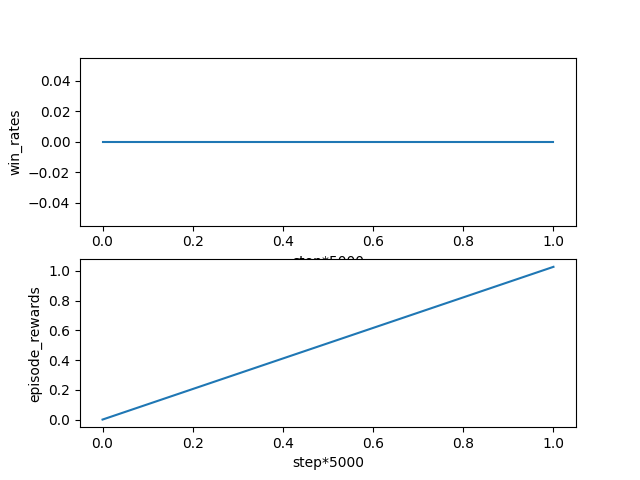
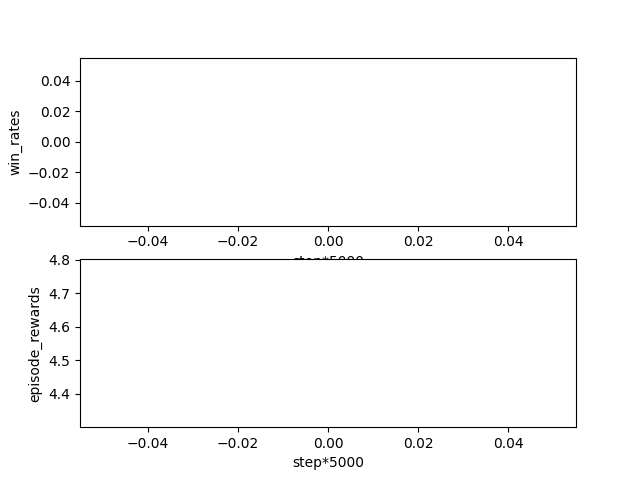
add max selector

diff --git a/network/task_rnn.py b/network/task_rnn.py
@@ -1,7 +1,9 @@
+from numpy.lib.type_check import imag
 from torch._C import qscheme
 import torch.nn as nn
 import torch.nn.functional as f
 import torch
+import numpy as np
 
 class TaskRNN(nn.Module):
     # Because all the agents share the same network, input_shape=obs_shape+n_actions+n_agents
@@ -55,3 +57,65 @@ class TaskRNN(nn.Module):
         
         return q, h, i_task
 
+
+class TaskRNNMax(nn.Module):
+    # Because all the agents share the same network, input_shape=obs_shape+n_actions+n_agents
+    def __init__(self, input_shape, args):
+        super(TaskRNN, self).__init__()
+        self.args = args
+        self.n_tasks = args.n_tasks
+        self.fc1 = nn.Linear(input_shape, args.rnn_hidden_dim)
+        self.rnn = nn.GRUCell(args.rnn_hidden_dim, args.rnn_hidden_dim)
+        # args.n_actions +1 ：动作维数+task selector. 每个任务不同的策略。
+        self.fc2 = nn.Linear(args.rnn_hidden_dim, args.n_actions * args.n_tasks)
+
+    def forward(self, obs, hidden_state, evaluate = False, num = 0):
+        '''
+        Params:
+            obs: (n_episode,  n_obs+...). or (n_episode*n_agent, n_obs+...)
+            hidden_state: (n_episode, n_agent, rnn_hidden_dim)
+        Return:
+            q: (n_episode,  n_actions), or (n_episode*n_agent,  n_actions)
+            i_task: (n_episode) or (n_episode*n_agent)
+        '''
+
+        x = f.relu(self.fc1(obs))
+        h_in = hidden_state.reshape(-1, self.args.rnn_hidden_dim)
+        h = self.rnn(x, h_in)
+        q = self.fc2(h)
+        # 保证所有的q都是正数
+        q = f.relu(q)
+
+        '''选择对应的task
+        先取max，获得每个(n_episode*n_agent,) 下, q的最大值的位置，从而找到对应的 task
+        args.n_actions * args.n_tasks
+        '''
+
+        i_max_q = q.argmax(dim=1)
+
+
+
+        q_shape = list(q.shape)
+        q_shape.append(-1)
+        q_shape[-2] = self.n_tasks
+        q = q.view(q_shape)
+        q_shape = q.shape           #  q_shape: (n_episode, n_tasks, n_actions)
+
+        i_max_q = np.unravel_index(i_max_q, q.shape)            # 最大值的坐标.list: ndim, (ndarry,... )
+
+        # 1. 取最后一个维度第一个数作为task selector, 选择最擅长的task
+        i_task = i_max_q[0]                 # ndarray: (n_episode*n_agent,) or (n_episode)
+
+        # print(type(i_task), i_task)
+        # 2. 取对应项相乘，计算
+        i_task = i_task.unsqueeze(-1).unsqueeze(-1)
+        i_task_shape = list(q_shape)
+        i_task_shape[-2] =  1
+        i_task = i_task.expand(i_task_shape)                # i_task_shape   (n_episode, 1, n_actions)
+        q = torch.gather(q, dim=-2, index=i_task)
+        q = q.squeeze(-2)
+        i_task = i_task.squeeze(1)
+        i_task = i_task[..., 0]                         #  (n_episode*n_agent)
+
+        
+        return q, h, i_task

diff --git a/policy/task_decomposition.py b/policy/task_decomposition.py
@@ -1,7 +1,7 @@
 from policy.qtran_alt import QtranAlt
 import torch
 import os
-from network.task_rnn import TaskRNN
+from network.task_rnn import TaskRNN, TaskRNNMax
 from network.task_decomposition import TaskDecomposition
 import torch.nn.functional as F
 import time
@@ -21,8 +21,8 @@ class TD:
             input_shape += self.n_agents
 
         # 神经网络
-        self.eval_rnn = TaskRNN(input_shape, args)  # 每个agent选动作的网络
-        self.target_rnn = TaskRNN(input_shape, args)
+        self.eval_rnn = TaskRNNMax(input_shape, args)  # 每个agent选动作的网络
+        self.target_rnn = TaskRNNMax(input_shape, args)
         self.eval_task_net = TaskDecomposition(args)  # 把agentsQ值加起来的网络
         self.target_task_net = TaskDecomposition(args)
         self.args = args
@@ -78,7 +78,7 @@ class TD:
                                                              batch['terminated']
         mask = 1 - batch["padded"].float()  # 用来把那些填充的经验的TD-error置0，从而不让它们影响到学习
 
-        # 得到每个agent对应的Q值，维度为(episode个数, max_episode_len， n_agents， n_tasks * (n_actions + 1))
+        # 得到每个agent对应的Q值，维度为(episode个数, max_episode_len， n_agents， n_actions)
         q_evals, q_targets, i_task, i_task_target = self.get_q_values(batch, max_episode_len)
 
         if self.args.cuda:
@@ -216,7 +216,7 @@ class TD:
 
             # 获得 相应任务的最优动作的q值，rnn的隐藏层，以及选了哪个任务
             # 
-            q_eval, self.eval_hidden, i_task = self.eval_rnn(inputs, self.eval_hidden)  # inputs维度为(3,42)，得到的q_eval维度为(40,n_actions)
+            q_eval, self.eval_hidden, i_task = self.eval_rnn(inputs, self.eval_hidden)  # q_eval维度为(n_episode*n_agents,n_actions)
             q_target, self.target_hidden, i_task_target= self.target_rnn(inputs_next, self.target_hidden)
 
             # 把q_eval维度重新变回(8, 5,n_actions)

diff --git a/common/rollout.py b/common/rollout.py
@@ -24,7 +24,7 @@ class RolloutWorker:
     def generate_episode(self, episode_num=None, evaluate=False):
         if self.args.replay_dir != '' and evaluate and episode_num == 0:  # prepare for save replay of evaluation
             self.env.close()
-        o, u, r, s, avail_u, u_onehot, terminate, padded = [], [], [], [], [], [], [], []
+        o, u, r, s, avail_u, u_onehot, terminate, padded, i_task = [], [], [], [], [], [], [], [], []
         self.env.reset()
         terminated = False
         win_tag = False
@@ -58,6 +58,9 @@ class RolloutWorker:
                 if self.args.alg == 'maven':
                     action = self.agents.choose_action(obs[agent_id], last_action[agent_id], agent_id,
                                                        avail_action, epsilon, maven_z, evaluate)
+                elif self.args.alg == 'task_decomposition':
+                    action = self.agents.choose_action(obs[agent_id], last_action[agent_id], agent_id,
+                                                       avail_action, epsilon, evaluate)
                 else:
                     action = self.agents.choose_action(obs[agent_id], last_action[agent_id], agent_id,
                                                        avail_action, epsilon, evaluate)

diff --git a/main.py b/main.py
@@ -34,11 +34,13 @@ if __name__ == '__main__':
         args.obs_shape = env_info["obs_shape"]
         args.episode_limit = env_info["episode_limit"]
 
-        if args.alg.find('task_decomposition') > -1:
-            args = get_task_decomposition_args(args, env)
 
         if args.task_dec_type !='':
             args = get_multi_reward_args(args, env)
+
+        if args.alg.find('task_decomposition') > -1:
+            args = get_task_decomposition_args(args)
+
         runner = Runner(env, args)
         if args.multi_process_n >  -1:
             n_run = 1 * args.multi_process_n + i

diff --git a/network/task_decomposition_all.py b/network/task_decomposition_all.py
@@ -52,7 +52,7 @@ class TaskDecompositionAll(nn.Module):
         '''
         # states的shape为(episode_num, max_episode_len， state_shape)
         # i_task shape (n_episode, max_episode_len, n_agent)
-        # q_values_all shape (n_episode, max_episode_len, n_agent, n_tasks, n_actions )
+        # q_values_all shape (n_episode, max_episode_len, n_agent, n_tasks )
 
         q_values_list = self.q_value_dec(q_values_all)
         hyper_networks = []

diff --git a/common/arguments.py b/common/arguments.py
@@ -165,12 +165,12 @@ def get_reinforce_args(args):
 
     return args
 
-def get_task_decomposition_args(args, env):
+def get_task_decomposition_args(args):
     # network: 
-    args.rnn_hidden_dim = 64 * 3
+    args.rnn_hidden_dim = 64 * args.n_tasks
     args.qmix_hidden_dim = 32 
     args.two_hyper_layers = False
-    args.hyper_hidden_dim = 16
+    args.hyper_hidden_dim = 64
     args.qtran_hidden_dim = 64
     args.lr = 5e-4
 
